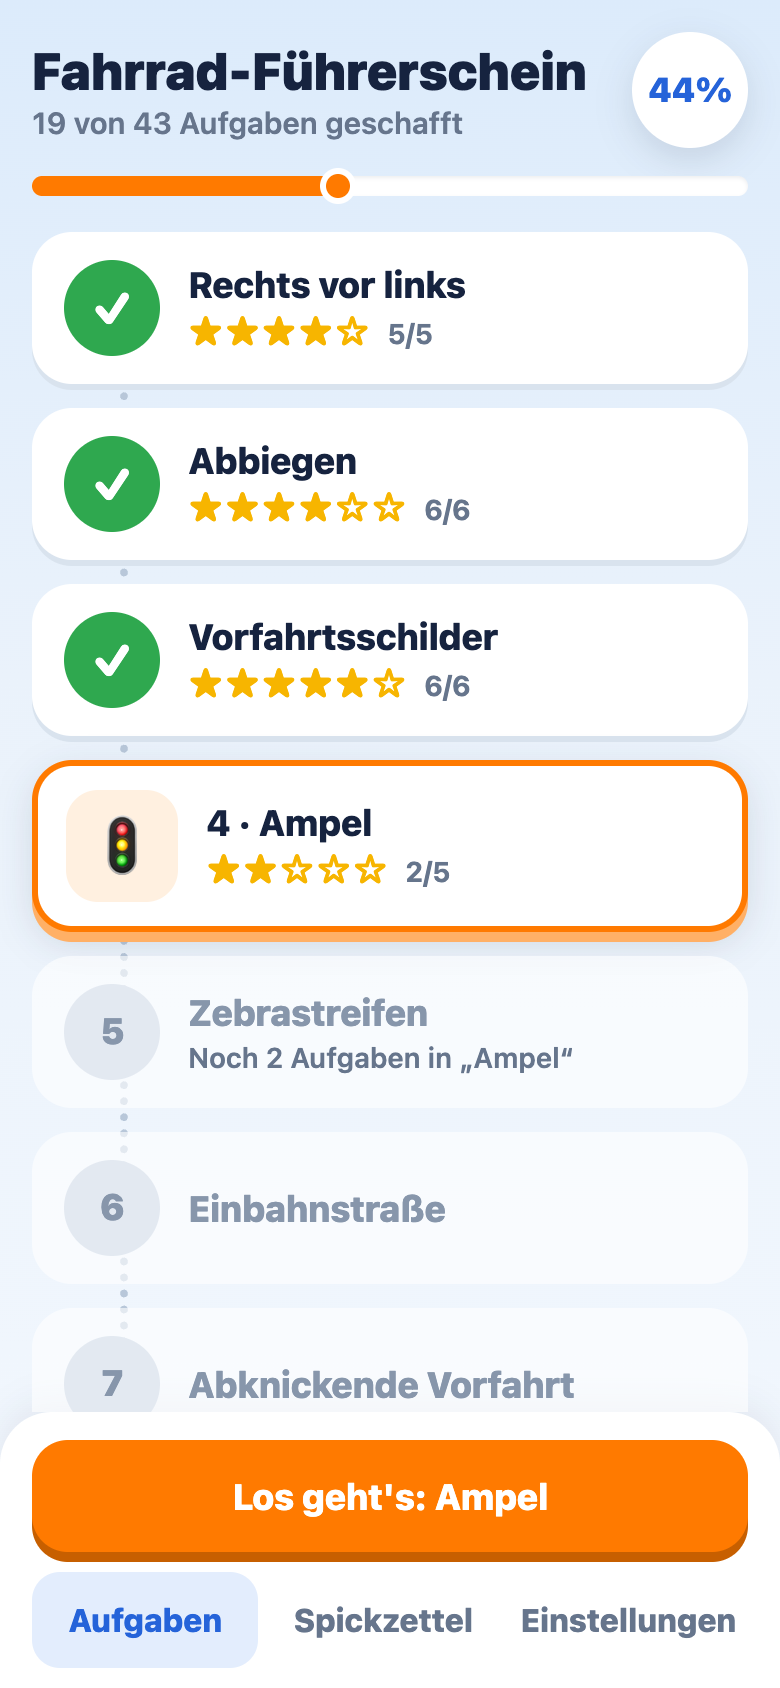
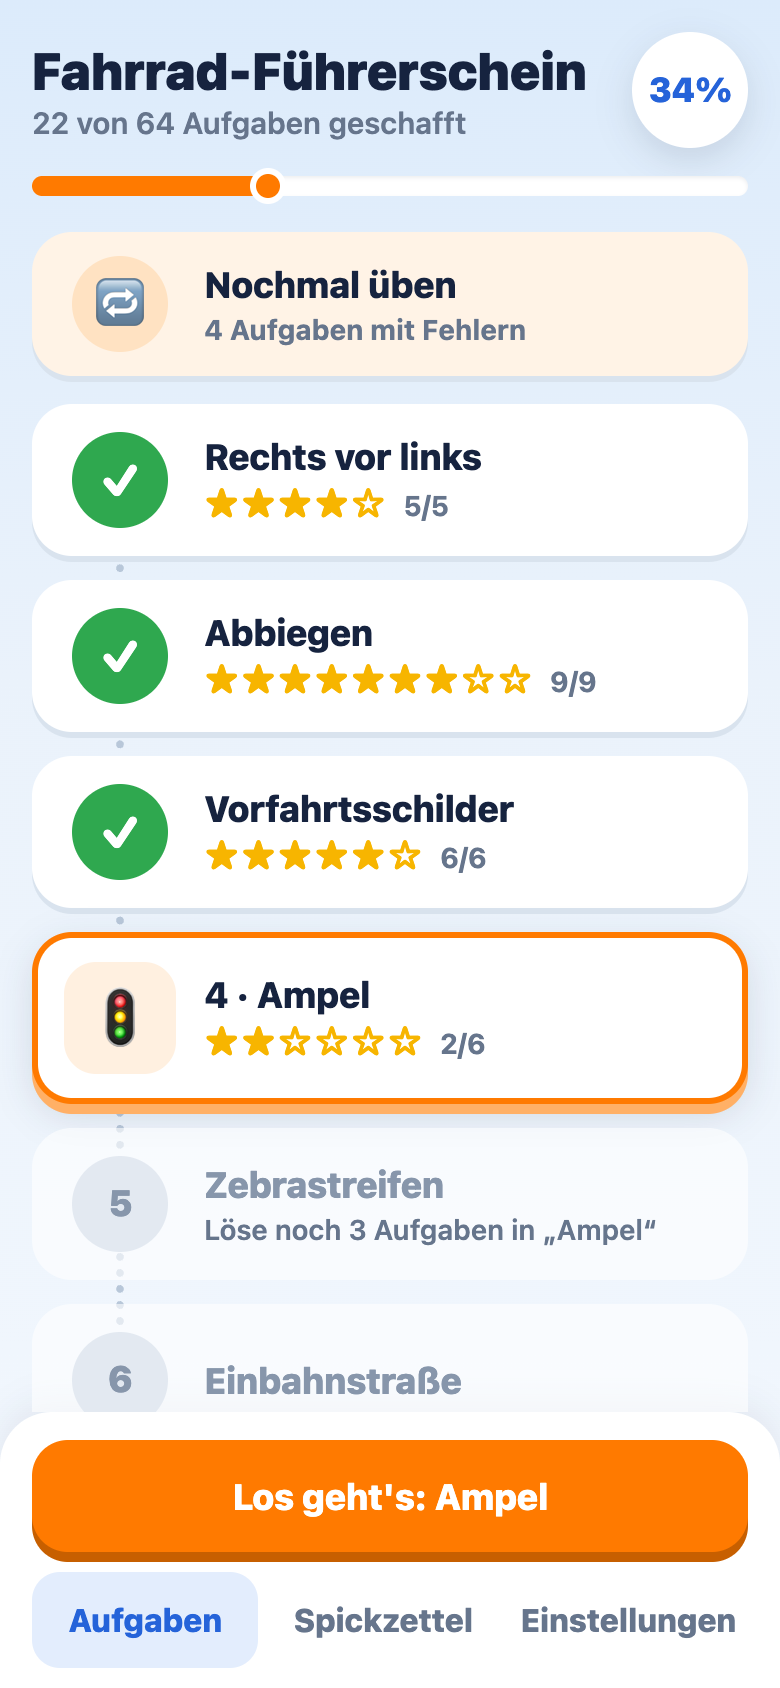
docs: README and AGENTS.md up to date, menu and bus-stop screenshots
intent(docs): docs had fallen behind: special places, practice mode, acted-out answers, three answers per choice, CI
decision(docs): README gets a short feature list and a bus-stop screenshot; the menu shot now shows the 'Nochmal üben' card and 64 tasks
decision(docs): AGENTS.md records the new layout options (driveway, busStop, zone), participant extras, and the pitfalls hit lately: bike view framing, near misses need crossing paths, braking after the junction, rounded roundabout entries, lights in the bike view, star row sizing

diff --git a/AGENTS.md b/AGENTS.md
@@ -6,7 +6,7 @@ Notes for coding agents working on this repo. The README says what the app is; t
 
 - **Audience:** children aged 8–10 and their teachers. All UI text, questions and explanations are **German, short, kid-friendly**: "du", no jargon, no blame on a wrong answer. Code, comments and commits are English.
 - **Phone portrait first** (~390×844). Check every UI change there before tablet or desktop. Touch targets ≥ 44 px.
-- **Rules must be correct.** Every rule card cites the StVO passage it rests on (`source` + `url`). Do not teach anything without a primary source. Topics left out on purpose are listed at the top of `src/content/rules.ts`.
+- **Rules must be correct.** Every rule card cites the StVO passage it rests on (`source` + `url`). Do not teach anything without a source. Where a card rests on an interpretation rather than the law's wording (pushing the bike at a zebra, the indirect left turn), the `source` says so, and the top of `src/content/rules.ts` explains why.
 - **No asset files.** 3D models, traffic signs (canvas textures), sounds (Web Audio) and icons are all generated in code. Keep it that way unless asked.
 - **No UI framework**, no new runtime dependencies. three.js is the only one.
 
@@ -34,20 +34,29 @@ Open one task directly with `/?s=<scenario id>`. In dev, `window.world`, `window
 | `src/play.ts` | Route timing, near-miss detection. |
 | `src/camera.ts` | Bird view (OrbitControls), ego view on the handlebar, tweens, HUD-aware framing. |
 | `src/audio.ts` | Synthesised sounds, read-aloud (`speechSynthesis`), voice picking. |
-| `src/progress.ts` | localStorage: progress, settings flags. |
+| `src/progress.ts` | localStorage: progress, settings flags, unlocking (80 %), what "Nochmal üben" asks again (`needsPractice`). |
 | `src/scene/*` | Junction generator: `roads`, `signs`, `lights`, `actors`, `decor`, `world`. |
 | `public/sw.js` | Hand-written service worker for offline use. |
+| `tests/` | Content consistency, answer checking, progress, decor overlap, lanes staying on the road, braking. |
+| `.github/` | CI (check + build on every push/PR, actions pinned by SHA) and Dependabot. |
 
 ## Adding a task
 
 1. Add a `Scenario` to `scenarios` in `src/content/scenarios.ts` and put it into a `Level`.
 2. Pick exactly one question type:
    - **`answer`**: tap the road users in order. It is a list of **groups** (`[["a","b"],["c"]]`): members of one group may be tapped in any order, e.g. two oncoming vehicles going straight.
-   - **`choice`**: 2–3 answer cards. `correct` indexes `options` as written. Cards are shuffled at display time, so the order in the data does not matter.
+   - **`choice`**: three answer cards, all plausible (a test allows 2–3, keep it at 3). `correct` indexes `options` as written. Cards are shuffled at display time, so the order in the data does not matter. Options are button labels: no final full stop (a test checks it).
      A choice task can act out its correct answer with `play: { groups, hold? }` (who drives, one group after another; `hold` = seconds the player waits at the stop line first). `waitAtLine` is for "wait" answers: the player rides to the stop line and stays while the lights change. Wrong answers are never acted out. Without `play` the result just appears.
 3. `rule` must point to an existing rule card. Write `explain` in kid-friendly German. If it names a colour ("das rote Auto"), a participant of that colour must exist (enforced by a test).
-4. Prefer existing layout helpers in `scenarios.ts` (`cross()`, `roundabout`, `bend()`, `driveway()`, …) over new geometry. A straight street is a layout with only N and S as roads; `ArmSpec.driveway` turns a side arm into a drive with a garage.
-5. Run `npm run check`. `tests/content.test.ts` validates every scenario.
+4. Prefer existing layout helpers in `scenarios.ts` (`cross()`, `tee()`, `signed()`, `lights()`, `roundabout`, `bend()`, `driveway()`, `busStop()`) over new geometry. A straight street is a layout with only N and S as roads. Arm options for special places:
+   - `driveway`: a side arm becomes a drive with a garage; the car waits behind the sidewalk.
+   - `busStop`: a parked bus with hazard lights on the arm's arriving lane, sign 224 and a shelter. Scenery, not a participant.
+   - `zone`: verkehrsberuhigter Bereich: paved, flush sidewalks, 325.1 for traffic turning in, 325.2 for traffic coming out.
+
+   Participant extras: `back` (metres further out; for walkers: cross further along the arm), `inRing`, `crossing` (a bike standing on the sidewalk at a zebra, facing across).
+5. Check the **bike view** for ego tasks: things beside the stop position are often outside the picture. Starting the rider 6 m back (`back: 6`) usually fixes it.
+6. Run `npm run check`. `tests/content.test.ts` validates every scenario.
+7. For order tasks, try the **wrong** order in the browser: it should freeze with "Achtung!". That only happens when the two paths cross; a car that merges into your lane behind you never "nearly hits" you. Change who comes from where until they cross.
 
 There is **no traffic-rule solver**: the right answer is written by hand, like a teacher would. Keep it that way unless the task count grows past ~100.
 
@@ -65,6 +74,10 @@ Signs are drawn on canvas in `src/scene/signs.ts`, following the real StVO shape
 - **CSS centring of letters and numbers** in circles uses `text-box: trim-both cap alphabetic` in an `@supports` block at the **end** of `style.css`. It does not work on grid containers, and base rules placed after it override it.
 - **Coplanar surfaces flicker.** Sidewalk pieces must abut, not overlap (see `ringCorner` in `roads.ts`).
 - **Free GPU memory** of a removed scene with `disposeTree`. Old school tablets run out fast.
+- **Vehicles brake after the junction** (`runOut` in `play.ts`, distance grows with speed², measured from the rear) so nobody drives to the end of the road. It is skipped in a near-miss replay: braking early could stop short of the conflict point.
+- **Roundabout entries** have a rounded curb (`ENTRY_R`); lanes follow it at their usual distance. `tests/roads.test.ts` drives every lane and fails if one touches the curb.
+- **Lights in the bike view:** at the stop line the signal head is above the picture. Acted-out "wait for green" answers hold where the kid first stands, so the change is visible.
+- **The level summary** shows one star per task; the row is sized against its column (container units), not the window. Long levels (the exam) must still fit on desktop.
 
 ## Verifying UI changes
 
@@ -74,6 +87,7 @@ Type checks and tests do not cover visuals. Look at the result:
 - Open `/?s=<id>`, click, and take screenshots.
 - Look at both "Von oben" and "Vom Rad" for scene changes.
 - Sounds can't be checked headless. Ask the owner to listen.
+- For content changes, run every order task once with its answer reversed and check that each freezes with "Achtung!" (a few legitimately do not: when the first wrong pair's paths don't cross).
 - If a change visibly alters what the README screenshots show (`docs/screenshots/`, 390×844 at 2×), retake them the same way.
 
 ## Git

diff --git a/README.md b/README.md
@@ -1,22 +1,31 @@
 # Fahrrad-Führerschein 3D
 
 A German 3D learning app for primary school kids (grade 3/4) preparing for the cycling test (Radfahrprüfung):
-who goes first at a junction, traffic signs, lights, zebra crossings, one-way streets and roundabouts.
+who goes first at a junction, traffic signs, lights, zebra crossings, turning left (directly or indirectly),
+one-way streets, roundabouts, and special places like a driveway, a bus stop or a Spielstraße.
 Kids tap the road users in the right order or pick an answer, watch the scene play out, and get the rule
 explained in child-friendly German, with a source in the StVO.
+
+- 10 levels, the last one a mixed exam; the next level opens at 80 % solved
+- order tasks play out; a wrong order freezes just before a crash ("Achtung!")
+- seen from above or from the bike, with a look over the shoulder
+- "Nochmal üben" repeats the tasks answered wrong; a cheat sheet with every rule and sign
+- everything can be read aloud; progress stays on the device, no account
 
 **Live:** https://fahrrad.michikrug.de (works offline once loaded, can be added to the home screen)
 
 <p>
-  <img src="docs/screenshots/menu.png" width="180" alt="Level overview with progress and stars">
+  <img src="docs/screenshots/menu.png" width="180" alt="Level overview with progress, stars and the practice card">
   <img src="docs/screenshots/order.png" width="180" alt="Tap the road users in the order they may go">
   <img src="docs/screenshots/choice.png" width="180" alt="Choice question in the cyclist's own view at a green arrow">
   <img src="docs/screenshots/roundabout.png" width="180" alt="Roundabout task from above">
+  <img src="docs/screenshots/busstop.png" width="180" alt="Bus at a stop with hazard lights, a boy crosses in front of it">
   <img src="docs/screenshots/signs.png" width="180" alt="Cheat sheet with traffic signs, each can be read aloud">
   <img src="docs/screenshots/finale.png" width="180" alt="Exam passed: spinning trophy and falling confetti">
 </p>
 
 Built with Vite, TypeScript and three.js. All 3D models, traffic signs and sounds are generated in code; no asset files.
+Detailed sign pictograms use the official artwork from Wikimedia Commons (public domain as official works).
 
 ## Develop
 
@@ -26,7 +35,8 @@ npm run dev     # dev server, also reachable from phones on the same network
 npm run check   # type check + tests (bun test)
 ```
 
-Tasks and rules live in `src/content/` as plain data.
+Tasks and rules live in `src/content/` as plain data. GitHub Actions runs the same check and a build on every
+push and pull request; Dependabot keeps the actions and npm packages current. Notes for coding agents: [AGENTS.md](AGENTS.md).
 
 ## Deploy
 
